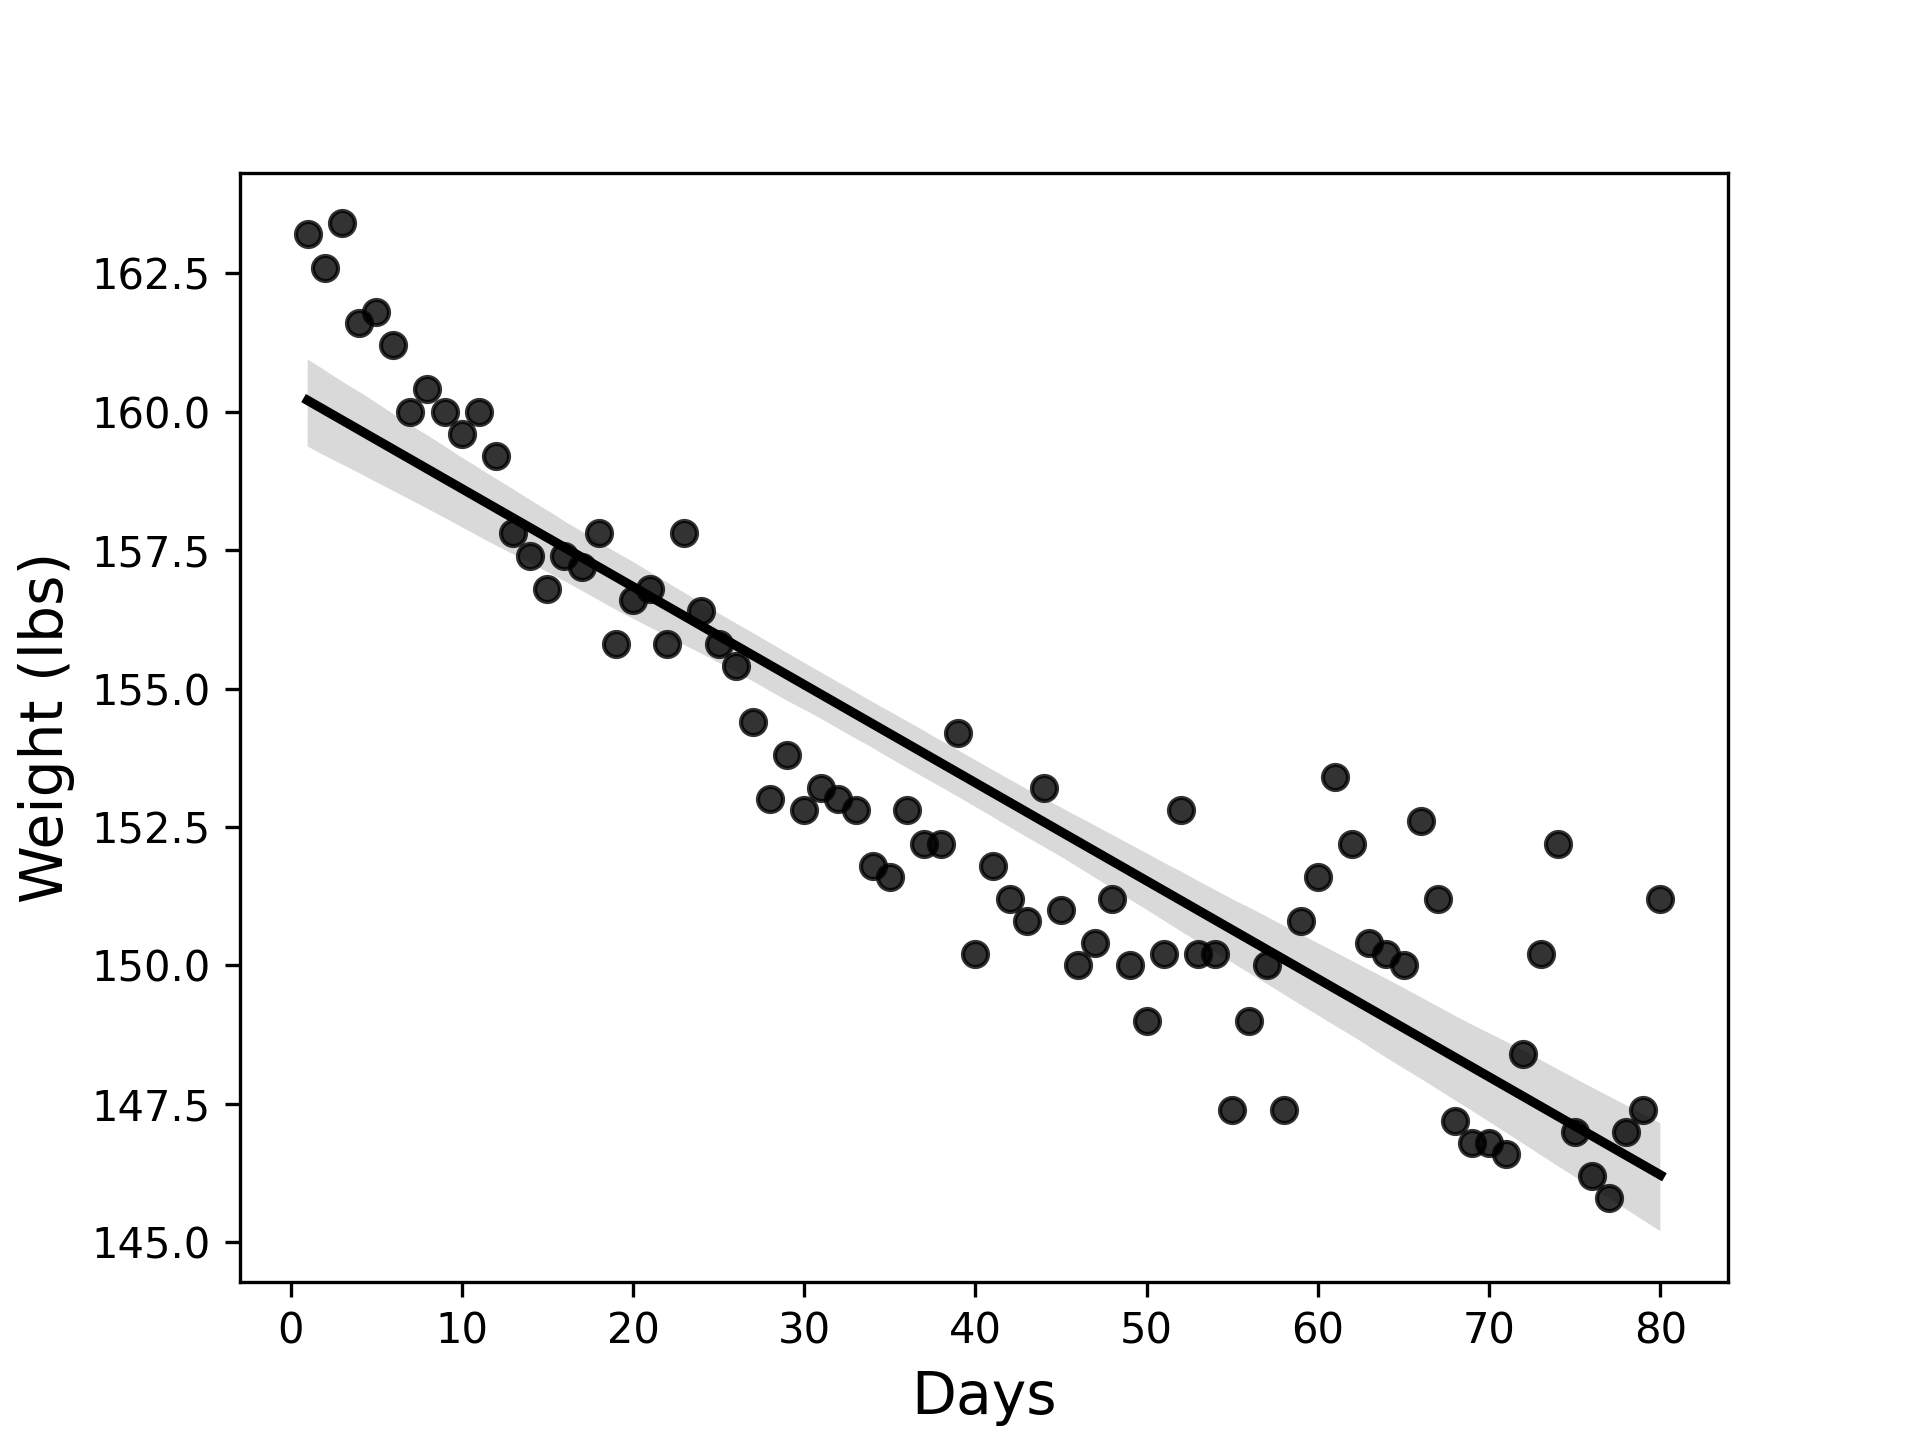
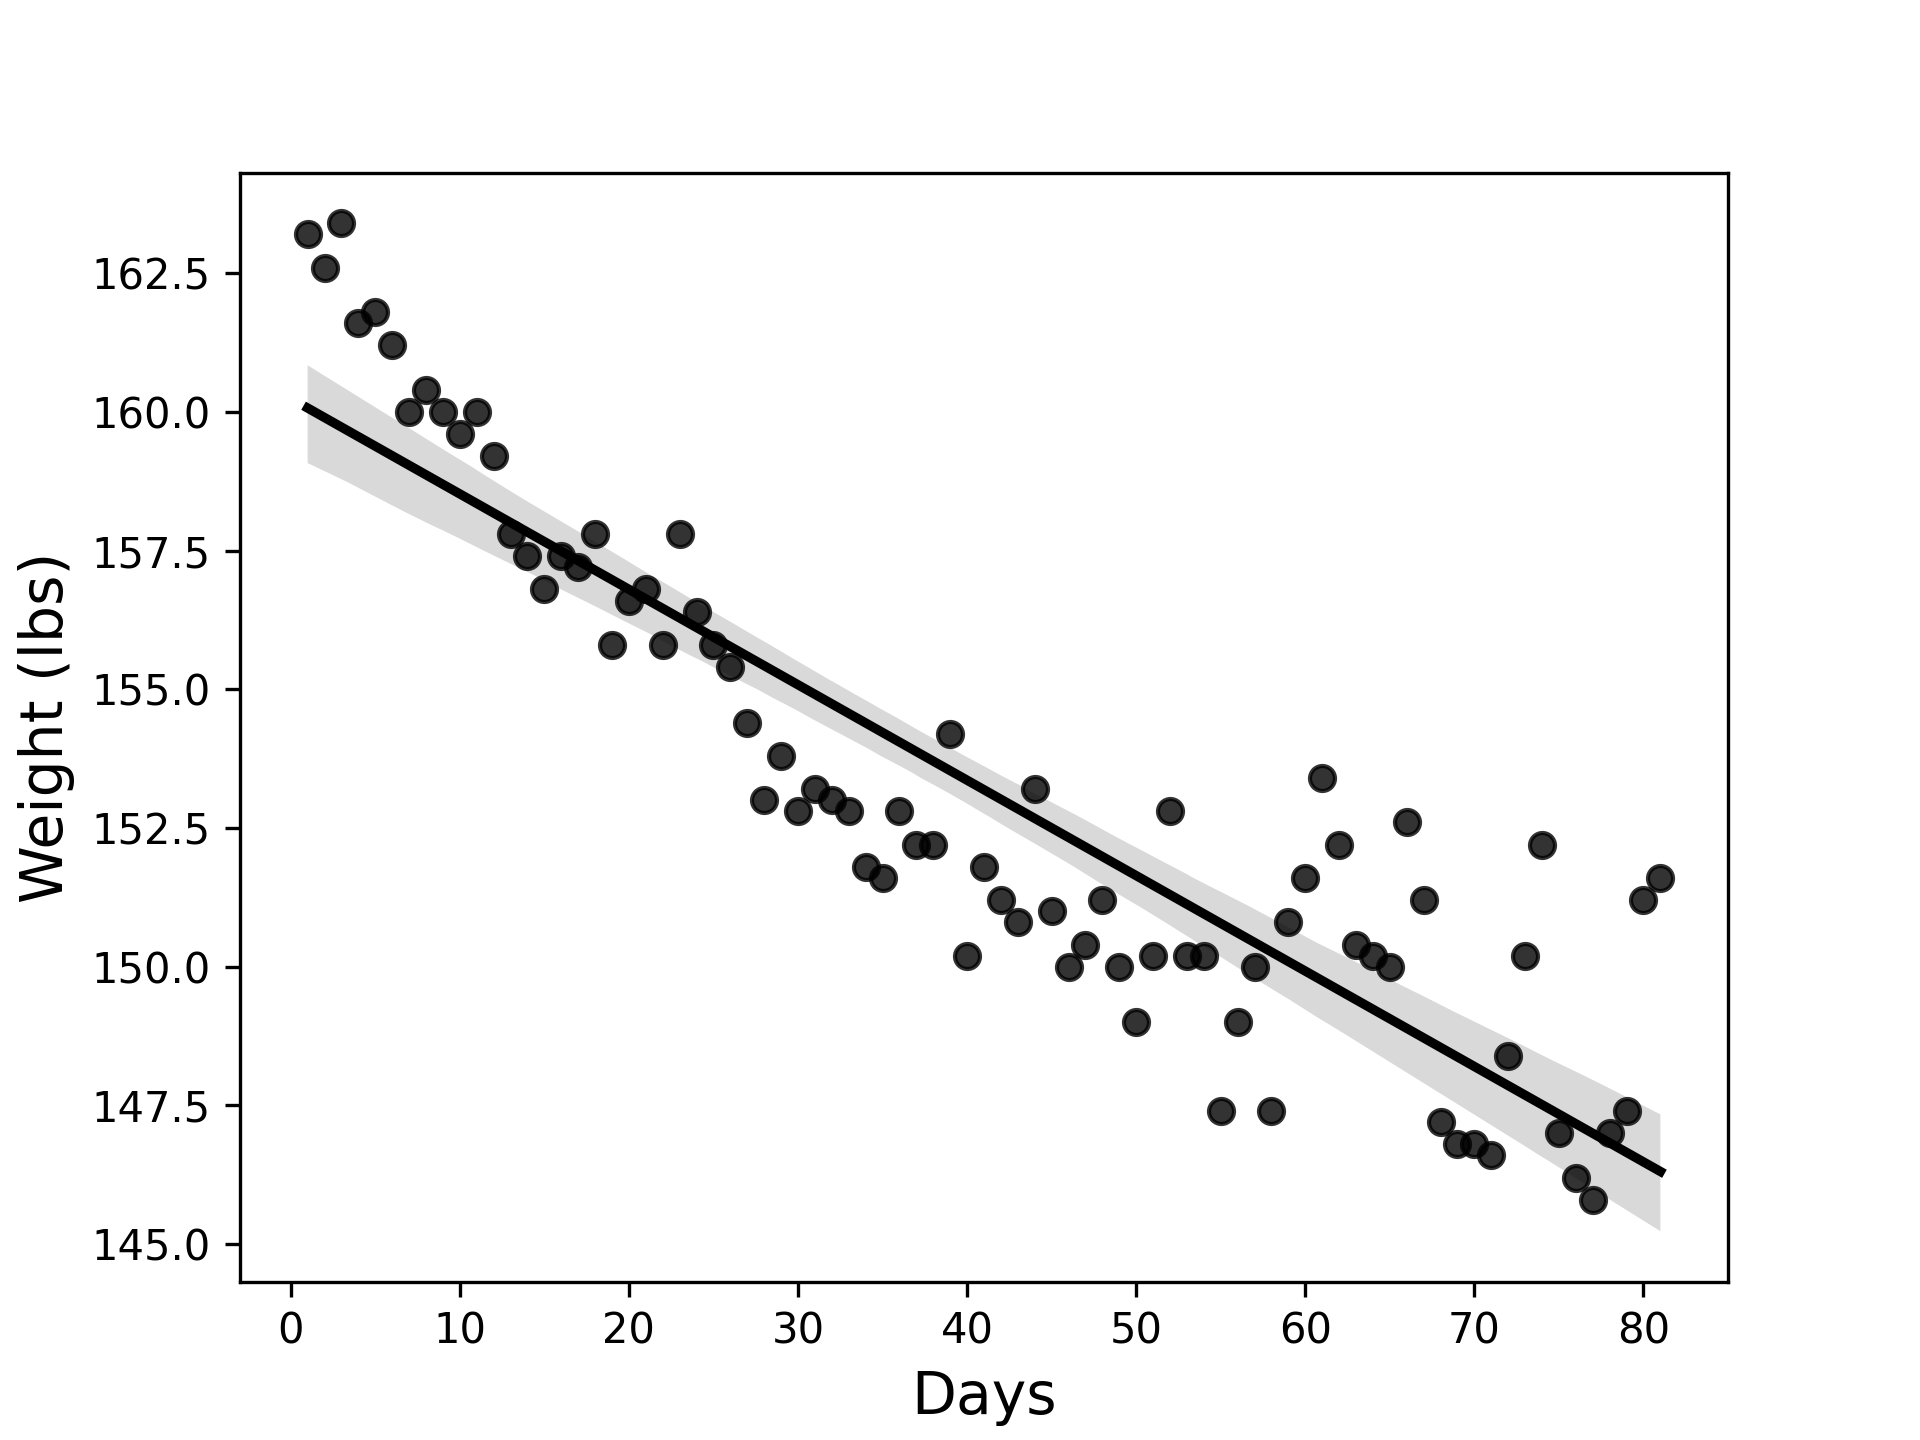
Updated weight.py and weight.png

diff --git a/Weight.py b/Weight.py
@@ -8,13 +8,13 @@ import seaborn as sns
 days_elapsed = np.array([1, 2, 3 ,4, 5, 6, 7, 8, 9, 10,11,12,13, 14,15,16,17,18,
                          19, 20,21,22,23,24,25,26,27,28,29,30,31,32,33,34,35,36,37,38,39,
                          40,41,42,43,44,45,46,47,48,49,50,51,52,53,54,55,56,57,58,59,60,61,62,
-                         63,64,65,66,67,68,69,70,71,72,73,74,75,76,77,78,79,80]).reshape(-1,1)
+                         63,64,65,66,67,68,69,70,71,72,73,74,75,76,77,78,79,80,81]).reshape(-1,1)
 weight = np.array([163.2, 162.6, 163.4, 161.6, 161.8, 161.2, 160.0, 160.4, 160.0, 159.6,160.0,159.2,157.8, 157.4,156.8,157.4,
                    157.2, 157.8,155.8, 156.6,156.8,155.8,157.8,156.4,155.8,155.4,154.4,153.0,153.8,152.8,153.2,
                    153.0,152.8,151.8,151.6,152.8,152.2,152.2,154.2,150.2, 151.8,151.2,150.8,153.2,
                    151.0,150.0,150.4,151.2,150.0,149.0,150.2,152.8,150.2,150.2,147.4,149.0,150.0,147.4,
                    150.8,151.6,153.4,152.2,150.4,150.2,150.0,152.6,151.2,147.2,146.8,146.8,146.6,
-                   148.4,150.2,152.2,147.0,146.2,145.8,147.0,147.4,151.2])
+                   148.4,150.2,152.2,147.0,146.2,145.8,147.0,147.4,151.2,151.6])
 # Day 62 BP
 
 # Instantiates a LinearRegression model and fits it to the above arrays
